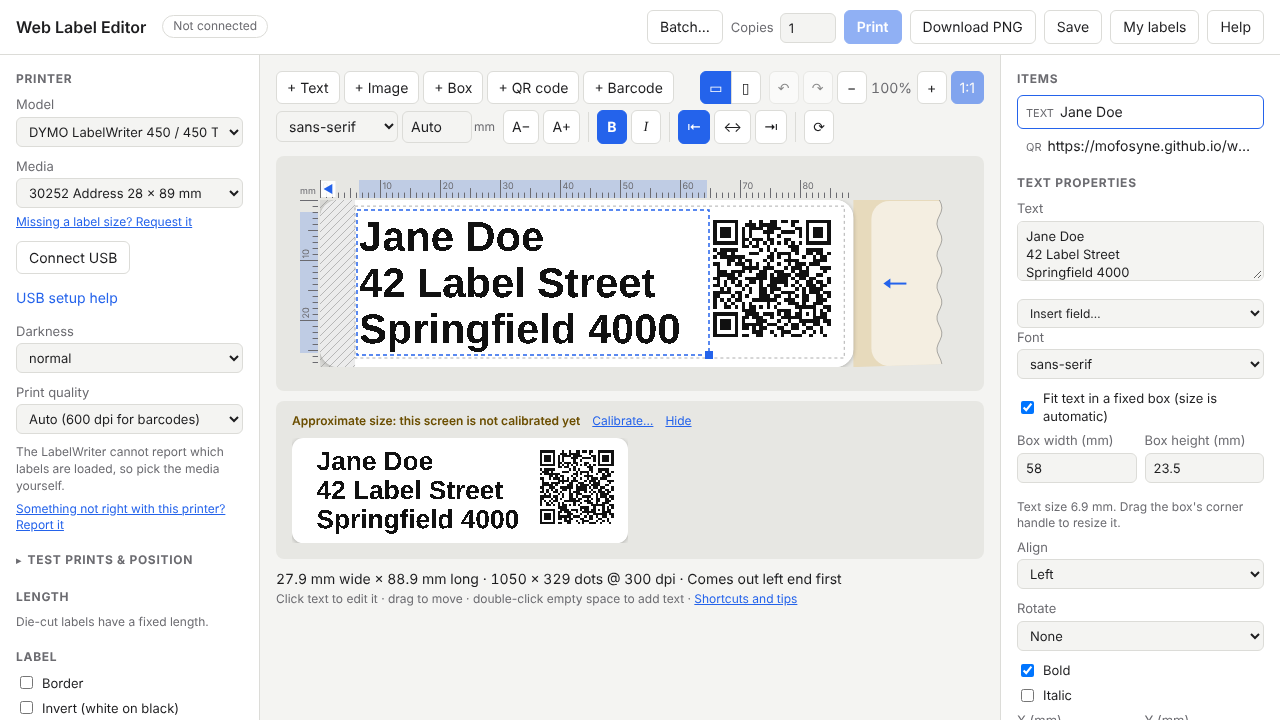
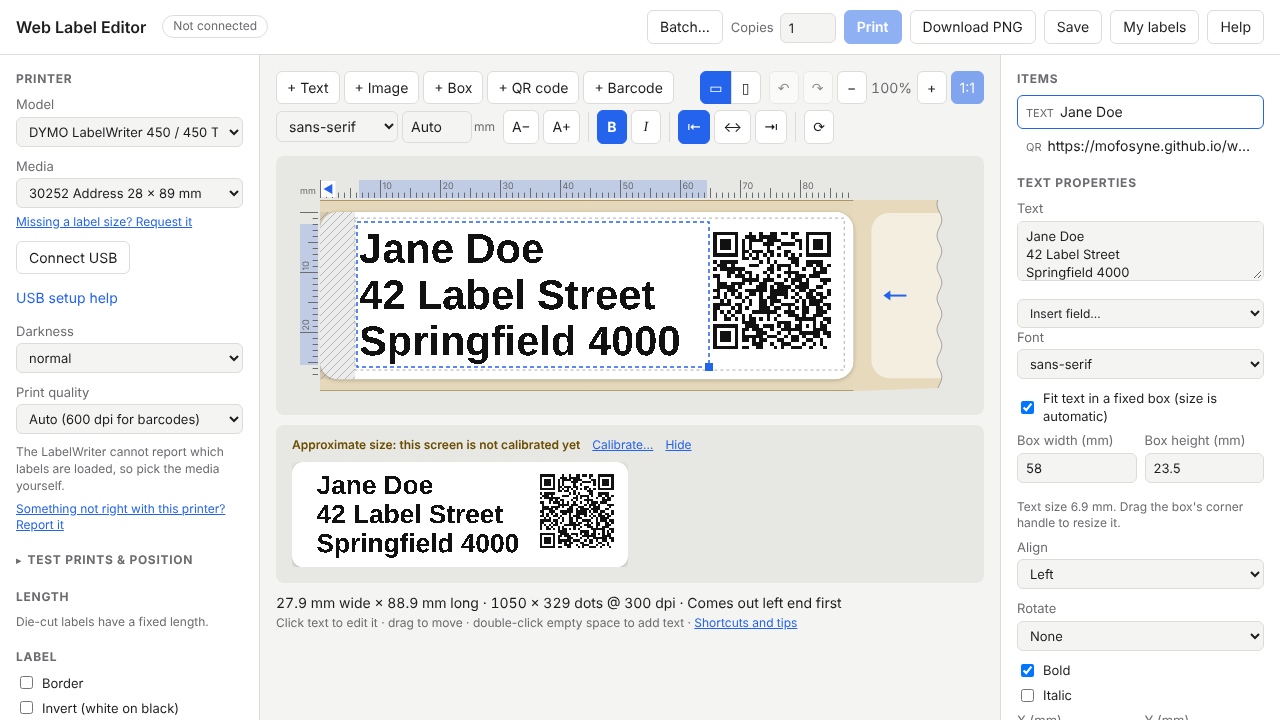
Remove overprint; show the backing paper; amber for past the safe area
- Overprint past the label edge is gone: on a LabelWriter 450 with a 30252
  label, an all-black 2 mm overprint stops at the die cut, so the head
  does not print on the backing. layout.js keeps the support, unused.
- The editor draws the backing paper die-cut labels sit on, as a tan band
  past their edges across (and in the roll stub), with its edges marked;
  x and y still start at the die cut. Width from a new BackingMm field
  (30252: 32 mm, measured), else the LabelWriter's usual 2 mm a side,
  marked as an estimate in the info line's tooltip.
- Going past the safe area is a warning in amber that names the item ('may
  be trimmed or not print'); red stays for what will be cut off.

Claude-Session: https://claude.ai/code/session_01YQFkThD3TEfZZoGyfdA6sY

Changed region(s): [[0.2188, 0.275, 0.75, 0.55], [0.2188, 0.5806, 0.6562, 0.8861], [0.6875, 0.3972, 0.7188, 0.4278]]

diff --git a/src/app.js b/src/app.js
@@ -16,7 +16,7 @@ import {
 } from './catalog.js';
 import { testPatternDesign } from './calibration.js';
 import {
-  viewGeometry, jobBitmap, stretchGeometry, rowMode, itemLane, itemVisible, canOverprint, blit, blankBitmap, MAX_BLEED_MM,
+  viewGeometry, jobBitmap, stretchGeometry, rowMode, itemLane, itemVisible, blit, blankBitmap,
   stripToPage, stripRectToPage,
 } from './layout.js';
 import { newRollId, rollCode, parseRollCode } from './rolls.js';
@@ -247,16 +247,19 @@ function setAdjust(key, value) {
 // (printer starts 6 mm late) means nothing can print in the first 6 mm; the
 // LabelWriter also never prints its leading margin (see skipLeadingMargin).
 // A negative hard margin is reachable space past the label edge, which an
-// overprint border can use. Safe: the catalogue margins (DYMO's driver),
+// overprint border could use. Safe: the catalogue margins (DYMO's driver),
 // where the head can print but the die-cut edge or a slightly misplaced
-// label may trim it off. Printing past the safe area is allowed: that is
-// how to overprint (bleed) to the edge.
+// label may trim it off. Printing past the safe area is allowed, but may
+// not come out the same every time.
 const dpmmNow = () => model().dpi / 25.4;
 // The Feed X adjustment in strip dots. Feed X is measured from the end that
 // comes out first, so on printers that feed the strip's far end first
 // (Brother QL) it shifts the other way along the strip.
 const feedDots = (feedMm, m, dpmm) => Math.round((m.leadingEnd === 'end' ? -1 : 1) * feedMm * dpmm);
-const bleedMm = () => (canOverprint(model(), medium()) ? Math.min(MAX_BLEED_MM, design.bleedMm ?? 0) : 0);
+// No overprint border: tested on a LabelWriter 450, the head does not put
+// ink on the backing past a die-cut label's edge (layout.js still supports
+// one, should a printer turn out to).
+const bleedMm = () => 0;
 function geometry(length = medium().lengthDots ?? 0, adj = adjust()) {
   const dpmm = dpmmNow();
   return viewGeometry(model(), medium(), {
@@ -350,7 +353,7 @@ function renderView(d = design, m = model(), med = medium(), { filled, adj, onAs
   const count = med.lanes?.count ?? 1;
   const upright = isPortrait(d);
   const opts = {
-    bleed: canOverprint(m, med) ? Math.round(Math.min(MAX_BLEED_MM, d.bleedMm ?? 0) * dpmm) : 0,
+    bleed: 0,
     feed: feedDots(a.feedMm, m, dpmm),
     across: Math.round(a.acrossMm * dpmm),
   };
@@ -499,12 +502,18 @@ function draw() {
   const alongPx = last.portrait ? cssH : cssW;
   const stub = Math.round(Math.max(28, Math.min(alongPx / zoom / 4, 15) * zoom));
   const stubAtStart = feed.trail < 1;
+  // The backing paper die-cut labels sit on shows past their edges across
+  // (`pad` each side), so the canvas is that much wider there too.
+  const backing = backingInfo();
+  const pad = backing ? Math.round(backing.padMm * zoom) : 0;
+  const ax = last.portrait ? pad : 0;
+  const ay = last.portrait ? 0 : pad;
   viewOrigin = {
-    x: !last.portrait && stubAtStart ? stub : 0,
-    y: last.portrait && stubAtStart ? stub : 0,
+    x: ax + (!last.portrait && stubAtStart ? stub : 0),
+    y: ay + (last.portrait && stubAtStart ? stub : 0),
   };
-  const fullW = cssW + (last.portrait ? 0 : stub);
-  const fullH = cssH + (last.portrait ? stub : 0);
+  const fullW = cssW + (last.portrait ? 2 * pad : stub);
+  const fullH = cssH + (last.portrait ? stub : 2 * pad);
   const dpr = window.devicePixelRatio || 1;
   canvas.style.width = `${fullW}px`;
   canvas.style.height = `${fullH}px`;
@@ -517,11 +526,29 @@ function draw() {
   const colors = previewColors();
   const radius = (med.cornerMm ?? 0) * zoom;
   const round = med.shape === 'round';
+  ctx.translate(ax, ay);
   drawFeedStub(ctx, {
-    stub, stubAtStart, portrait: last.portrait, cssW, cssH, colors, radius, cuts, round,
+    stub, stubAtStart, portrait: last.portrait, cssW, cssH, colors, radius, cuts, round, pad,
     dieCut: !!med.lengthDots, gap: Math.min(3 * zoom, stub * 0.3),
   });
-  ctx.translate(viewOrigin.x, viewOrigin.y);
+  ctx.translate(viewOrigin.x - ax, viewOrigin.y - ay);
+  if (pad) {
+    // The backing alongside the label, with its edges marked.
+    const [bx, by, bw, bh] = last.portrait ? [-pad, 0, cssW + 2 * pad, cssH] : [0, -pad, cssW, cssH + 2 * pad];
+    ctx.fillStyle = 'rgba(230, 190, 110, .35)';
+    ctx.fillRect(bx, by, bw, bh);
+    ctx.strokeStyle = 'rgba(150, 120, 70, .7)';
+    ctx.lineWidth = 1;
+    ctx.beginPath();
+    if (last.portrait) {
+      ctx.moveTo(bx + 0.5, by); ctx.lineTo(bx + 0.5, by + bh);
+      ctx.moveTo(bx + bw - 0.5, by); ctx.lineTo(bx + bw - 0.5, by + bh);
+    } else {
+      ctx.moveTo(bx, by + 0.5); ctx.lineTo(bx + bw, by + 0.5);
+      ctx.moveTo(bx, by + bh - 0.5); ctx.lineTo(bx + bw, by + bh - 0.5);
+    }
+    ctx.stroke();
+  }
 
   // Label outlines: a single plain label is clipped to its shape (rounded
   // corners, or a circle); otherwise each label is outlined and the liner
@@ -632,7 +659,7 @@ function draw() {
   if (lanes) tape = `${lanes.count} labels per row, each ${tape}`;
   $('dims').title = 'Hatched: the printer cannot print there. Dashed line: the safe area (from the label maker\'s driver); '
     + 'items past it still print, overprinting towards the label edge, but the die cut may trim them.'
-    + (geo.top || geo.bottom || geo.right ? ' Tinted: the liner around the label, which an overprint border prints on.' : '');
+    + (backing ? ` Tan: the backing paper the labels sit on (${backing.measured ? 'measured' : 'about 2 mm each side, estimated'}); the head does not print on it.` : '');
   // Checked against where items put ink (text: its glyphs, not the font's
   // line box), with half a dot of slack for rounding.
   const slack = 0.5 * scale;
@@ -660,7 +687,9 @@ function draw() {
     return [[b.x, b.y], [b.x + b.w, b.y], [b.x, b.y + b.h], [b.x + b.w, b.y + b.h]]
       .some(([x, y]) => ((x * scale - cx) / rx) ** 2 + ((y * scale - cy) / ry) ** 2 > 1);
   };
-  const overprint = !offLabel && shownBounds.some(({ b, lane }) => outside(b, safe[lane]) || (round && outsideCircle(b, safe[lane])));
+  const pastSafe = (b, i) => b && outside(b, safe[last.lanes[i]]) || (b && round && outsideCircle(b, safe[last.lanes[i]]));
+  const unsafe = offLabel ? [] : last.inks.map((b, i) => (pastSafe(b, i) ? design.items[i] : null)).filter(Boolean);
+  const overprint = unsafe.length > 0;
   const dims = $('dims');
   // In words: the ends as seen in the preview.
   const end = (p) => (last.portrait ? (p ? 'bottom' : 'top') : (p ? 'right' : 'left'));
@@ -670,10 +699,12 @@ function draw() {
   dims.textContent = `${tape} × ${lenMm.toFixed(1)} mm long${last.portrait ? ', portrait' : ''}  ·  ${geo.width} × ${geo.height} dots @ ${m.dpi} dpi`
     + (highResJob() ? ' (prints at 300 × 600 dpi)' : '')
     + cutNote
-    + (overprint ? '  ·  Overprinting past the safe area (the die cut may trim it)' : '')
+    + (overprint ? `  ·  ⚠ The ${kinds[unsafe[0].type]}${short(unsafe[0])}${unsafe.length > 1 ? ` and ${unsafe.length - 1} more` : ''} `
+      + `${unsafe.length > 1 ? 'go' : 'goes'} past the safe area: it may be trimmed or not print` : '')
     + (last.hidden ? `  ·  ${last.hidden} item${last.hidden > 1 ? 's' : ''} on the other label${lanes?.count > 2 ? 's' : ''} hidden (choose "A different design on each")` : '')
     + `  ·  ${feedNote}`;
   dims.classList.toggle('warn', offLabel);
+  dims.classList.toggle('caution', !offLabel && overprint);
   $('zoom-label').textContent = takeOver ? '1:1' : `${Math.round((zoom / 6) * 100)}%`;
   updateActualButton();
   updateCodeInfo();
@@ -687,6 +718,17 @@ function draw() {
 function evenMargins(mg) {
   const m = Math.min(mg.left, mg.right, mg.top, mg.bottom);
   return { left: m, right: m, top: m, bottom: m };
+}
+
+// The backing paper around die-cut labels: how far it shows past the row
+// of labels each side (mm), and whether that is measured (BackingMm in the
+// catalogue) or the LabelWriter's usual 2 mm a side. null where none shows.
+function backingInfo() {
+  const med = medium();
+  if (!med.lengthDots || model().custom) return null;
+  const rowMm = (med.lanes?.pageDots ?? med.acrossDots) / dpmmNow();
+  if (med.backingMm) return { padMm: Math.max(0, (med.backingMm - rowMm) / 2), measured: true };
+  return model().family === 'dymo-lw' ? { padMm: 2, measured: false } : null;
 }
 
 // A label's outline on a canvas or Path2D: a rounded rectangle, or the
@@ -705,16 +747,19 @@ function labelOutline(p, x, y, w, h, radius, round) {
 // far edge, an arrow the way the label moves, and the cut (dashed) when
 // the printer cuts. Drawn before the canvas is shifted to the label.
 function drawFeedStub(ctx, o) {
-  const { stub, stubAtStart, portrait, cssW, cssH, colors, radius, dieCut, gap, cuts, round } = o;
-  // Work in "along / across" terms, then map to x / y.
+  const { stub, stubAtStart, portrait, cssW, cssH, colors, radius, dieCut, gap, cuts, round, pad = 0 } = o;
+  // Work in "along / across" terms, then map to x / y. The roll spans the
+  // backing (`pad` past the label each side) when there is one.
   const across = portrait ? cssW : cssH;
+  const c0 = -pad;
+  const c1 = across + pad;
   const near = stubAtStart ? stub : (portrait ? cssH : cssW); // the label's trailing edge
   const dir = stubAtStart ? -1 : 1; // from the label into the stub
   const P = (a, c) => (portrait ? [c, a] : [a, c]);
   const wave = (a0) => {
     // The torn far edge, as a path along the across axis.
     const pts = [];
-    for (let c = 0; c <= across; c += 4) pts.push(P(a0 + Math.sin(c / 5) * 2.5 * dir, c));
+    for (let c = c0; c <= c1; c += 4) pts.push(P(a0 + Math.sin(c / 5) * 2.5 * dir, c));
     return pts;
   };
   const far = near + dir * (stub - 4);
@@ -722,9 +767,9 @@ function drawFeedStub(ctx, o) {
   ctx.globalAlpha = 0.55;
   // Backing or tape body: from the label's edge to the torn edge.
   const region = new Path2D();
-  region.moveTo(...P(near, 0));
+  region.moveTo(...P(near, c0));
   for (const pt of wave(far)) region.lineTo(...pt);
-  region.lineTo(...P(near, across));
+  region.lineTo(...P(near, c1));
   region.closePath();
   ctx.fillStyle = dieCut ? 'rgba(230, 190, 110, .6)' : `rgb(${colors.paper.join(',')})`;
   ctx.fill(region);
@@ -1134,9 +1179,6 @@ function buildSetup() {
   }
   const orient = portrait() ? 'portrait' : 'landscape';
   for (const b of document.querySelectorAll('[data-orient]')) b.setAttribute('aria-pressed', String(b.dataset.orient === orient));
-  const overprintable = canOverprint(m, medium());
-  $('bleed-box').hidden = !overprintable;
-  if (overprintable) $('bleed').value = String(design.bleedMm ?? 0);
   updateReportLinks();
   const linked = design.labelId ? labels.get(design.labelId) : null;
   if (design.labelId && !linked) delete design.labelId;
@@ -3357,7 +3399,6 @@ function wire() {
     else setRowMode(e.target.value);
   };
   for (const b of document.querySelectorAll('[data-orient]')) b.onclick = () => setOrientation(b.dataset.orient);
-  $('bleed').onchange = (e) => { design.bleedMm = Number(e.target.value) || 0; refresh({ setup: true }); };
   $('btn-lib-open').onclick = () => showLibrary();
   $('btn-lib-save').onclick = () => saveToLibrary(false);
   $('btn-save').onclick = () => saveToLibrary(false);

diff --git a/src/about.js b/src/about.js
@@ -115,8 +115,9 @@ function tips() {
     el('ul', {},
       li(b('Hatched border'), ': where the printer cannot put ink at all. Anything there is cut off and flagged; '
         + 'text counts where its letters are, not the blank space a font keeps above and below them.'),
-      li(b('Dashed line'), ': the safe area. Items past it still print (overprinting towards the label edge), but the '
-        + 'die cut may trim them.'),
+      li(b('Dashed line'), ': the safe area. Past it, a print may be trimmed by the die cut or not come out the same '
+        + 'every time: flagged in amber, and left off the actual-size panel. The tan band is the backing paper; the '
+        + 'head does not print on it.'),
       li(b('Portrait'), ' (▭ ▯ in the toolbar) lets you design the label standing upright; it is turned for printing. '
         + 'On tape it grows downwards with the content.'),
       li(b('Actual size'), ': the panel under the editor shows the label at its real size; until you calibrate your '
@@ -137,8 +138,6 @@ function tips() {
         + 'sizes its text to fit; on tape and rolls it has a set size, and the label grows with it.'),
       li(b('Fit text in a fixed box'), ' picks the largest size that fits; ', b('Fill safe area'), ' makes the box '
         + 'cover the safe area, ', b('Fill to edge'), ' the whole label. Drag the corner handle to resize.'),
-      li(b('Overprint past the label edge'), ' (DYMO die-cut labels): the tinted border around the label is the liner; '
-        + 'ink there makes a black background or border reach the edge even if the label sits a little off.'),
       li(b('Two labels per row'), ' (e.g. DYMO 30333): the preview shows the whole row. Choose the same design on '
         + 'all, a different design on each (click a label to add to it, drag items between them), or one at a time. '
         + 'The 🔓 Edit separately button on the dimmed copy unlinks it, starting from a copy of label 1.'),

diff --git a/index.html b/index.html
@@ -67,15 +67,6 @@
       <h2>Label</h2>
       <label class="inline"><input id="border" type="checkbox"> Border</label>
       <label class="inline"><input id="invert" type="checkbox"> Invert (white on black)</label>
-      <label id="bleed-box" hidden>Overprint past the label edge
-        <select id="bleed">
-          <option value="0">Off</option>
-          <option value="0.5">0.5 mm</option>
-          <option value="1">1 mm</option>
-          <option value="1.5">1.5 mm</option>
-          <option value="2">2 mm</option>
-        </select>
-      </label>
 
       <h2>Design</h2>
       <p id="lib-current" class="note" hidden></p>

diff --git a/src/catalog.js b/src/catalog.js
@@ -73,6 +73,8 @@ function toMedium(rec, model) {
   if (printableDots != null) medium.tapeMm = widthMm;
   const corner = num('CornerMm');
   if (corner) medium.cornerMm = corner;
+  const backing = num('BackingMm');
+  if (backing) medium.backingMm = backing;
   const shape = text('Shape');
   if (shape && shape !== 'rect' && shape !== 'round') throw new Error(`${where}: Shape must be rect or round`);
   if (shape === 'round') medium.shape = 'round';

diff --git a/style.css b/style.css
@@ -284,7 +284,9 @@ textarea.inplace {
 }
 
 .dims { color: var(--text); font-variant-numeric: tabular-nums; margin: 10px 0 2px; }
+/* Red: will be cut off. Amber: past the safe area, may not print. */
 .dims.warn { color: var(--danger); }
+.dims.caution { color: var(--warn-text); }
 .hint { color: var(--muted); font-size: 12px; margin: 0; }
 
 .item-list { list-style: none; padding: 0; margin: 0 0 12px; }

diff --git a/README.md b/README.md
@@ -382,17 +382,11 @@ take a few seconds to send.
   label is shown at its real size, DYMO and Brother alike.
 - **Dashed line, the safe area:** the makers' own printable area (for DYMO,
   the driver's). The head can print past it, but the die-cut edge or a label
-  sitting slightly off may trim what is there. Going past it is allowed on
-  purpose, to **overprint** towards the edge (a black background, a border
-  that runs off the label): the preview notes it, and *Fill to edge* sizes a
-  fitted text box to the whole reachable label instead of the safe area.
-- **Overprint past the label edge** (DYMO die-cut labels, *Label* panel, up
-  to 2 mm): the preview grows a border around the label, tinted as the
-  liner, and anything there prints onto the liner, so a black background or
-  a border really reaches the die-cut edge even if the label sits a little
-  off. It works where the head reaches: past the label's far edge and its
-  end (at most 1.5 mm, into the gap before the next label), not before the
-  ~6 mm leading margin or past the edge against the printer's guide.
+  sitting slightly off may trim what is there, so it may not come out the
+  same every time; the preview notes it, and the actual-size panel leaves it
+  off. *Fill to edge* sizes a fitted text box to the whole reachable label
+  instead of the safe area. The head does not print on the backing past the
+  die cut (tested on a LabelWriter 450).
 - **Two labels per row** (e.g. DYMO 30333, 13 × 25 mm halves): the preview
   shows the whole row. *Labels in a row* chooses *Same design on all* (the
   other labels show a dimmed copy; Copies counts rows), *A different design
